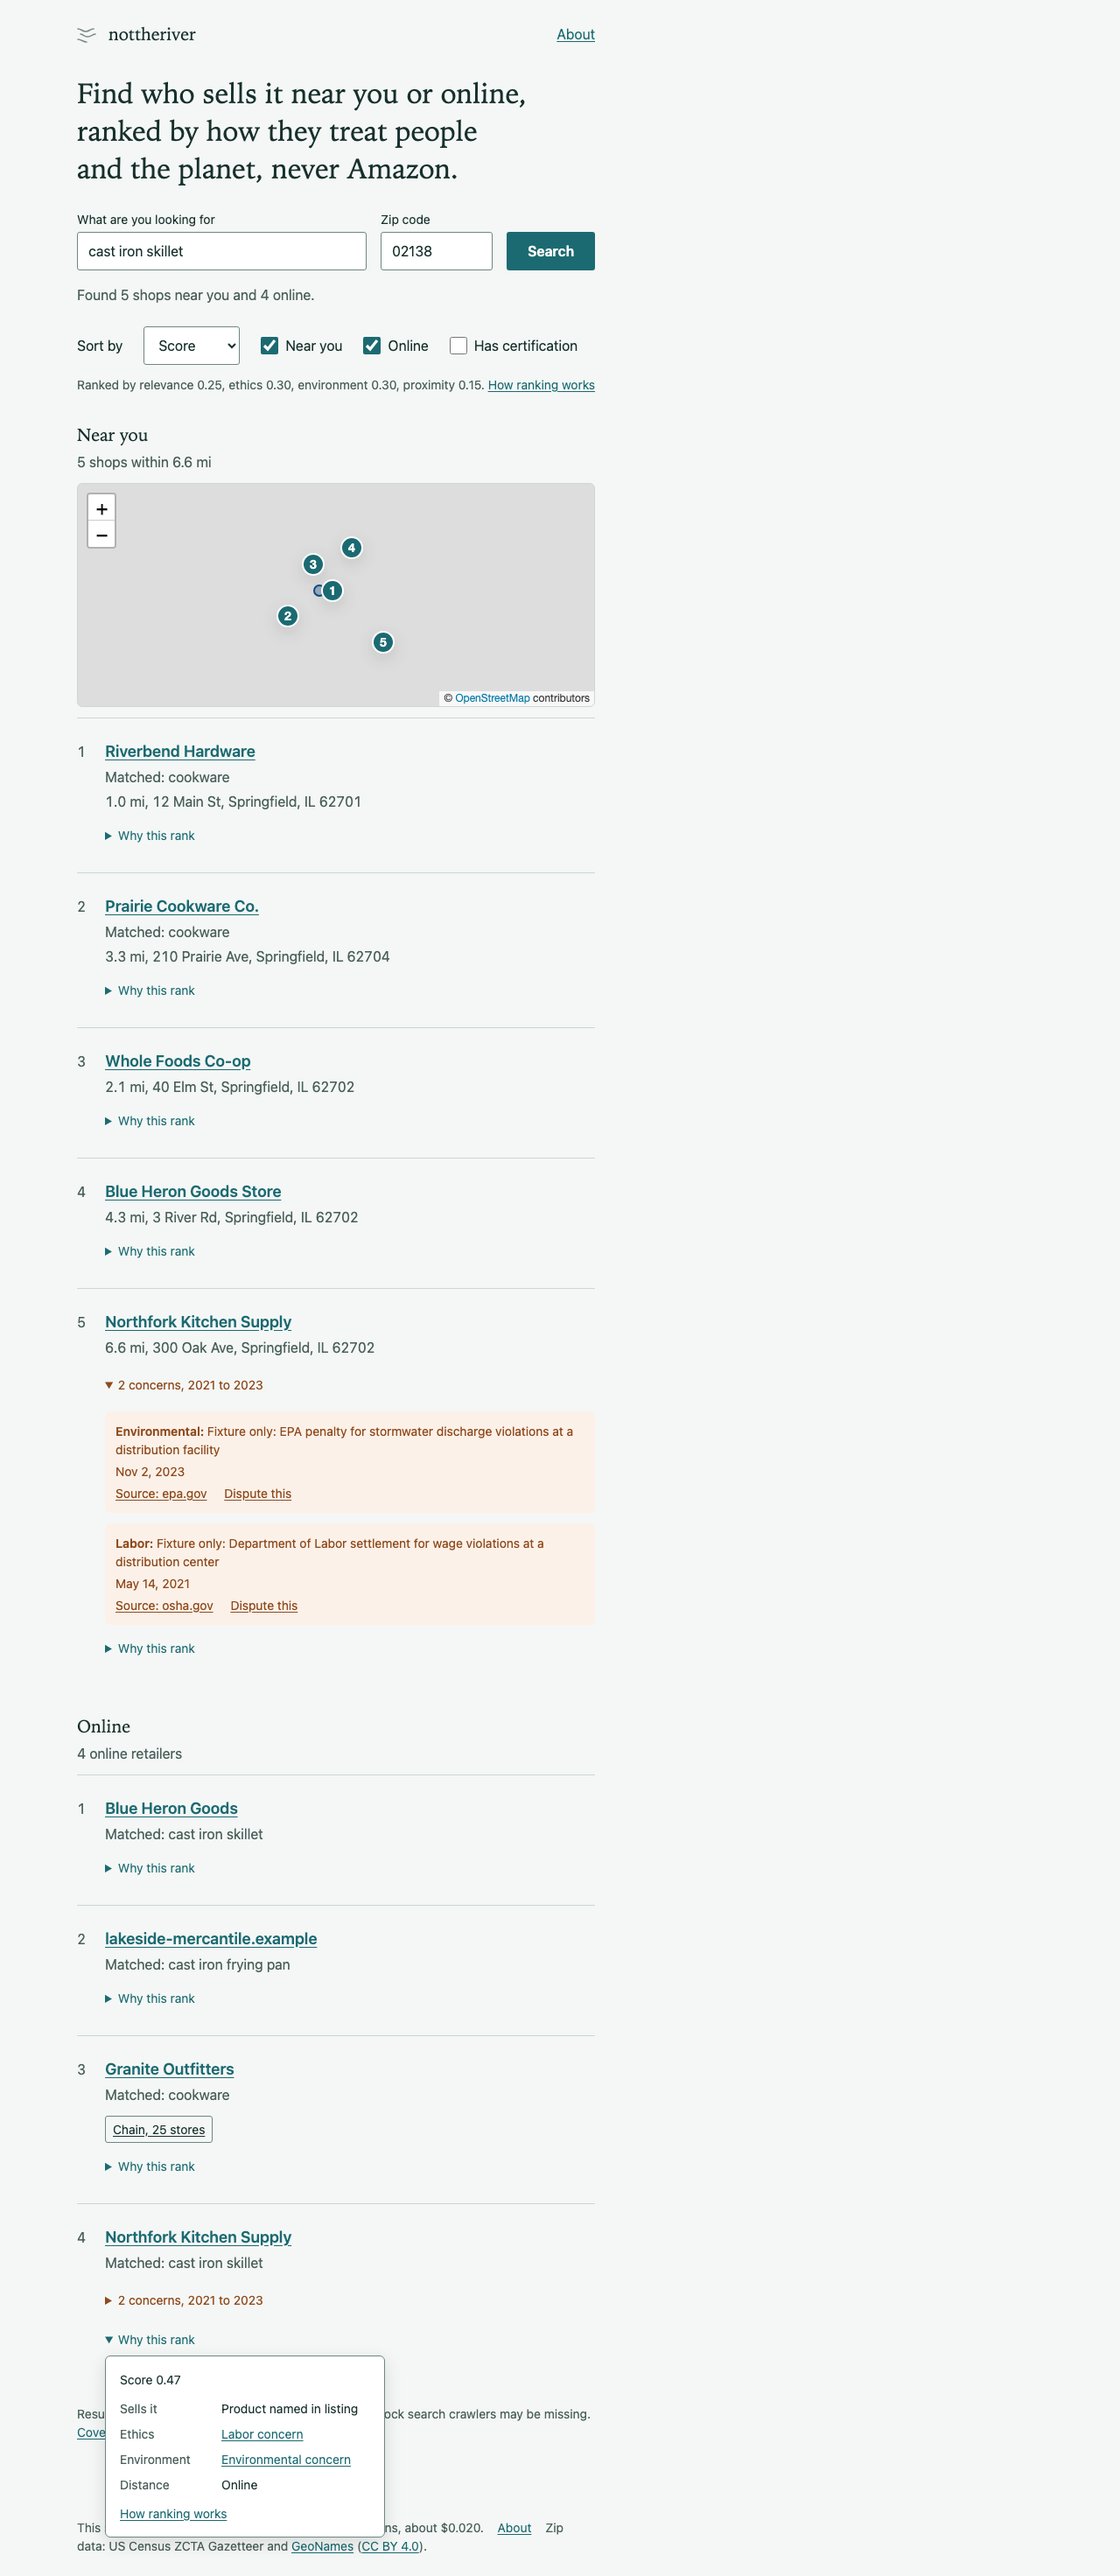
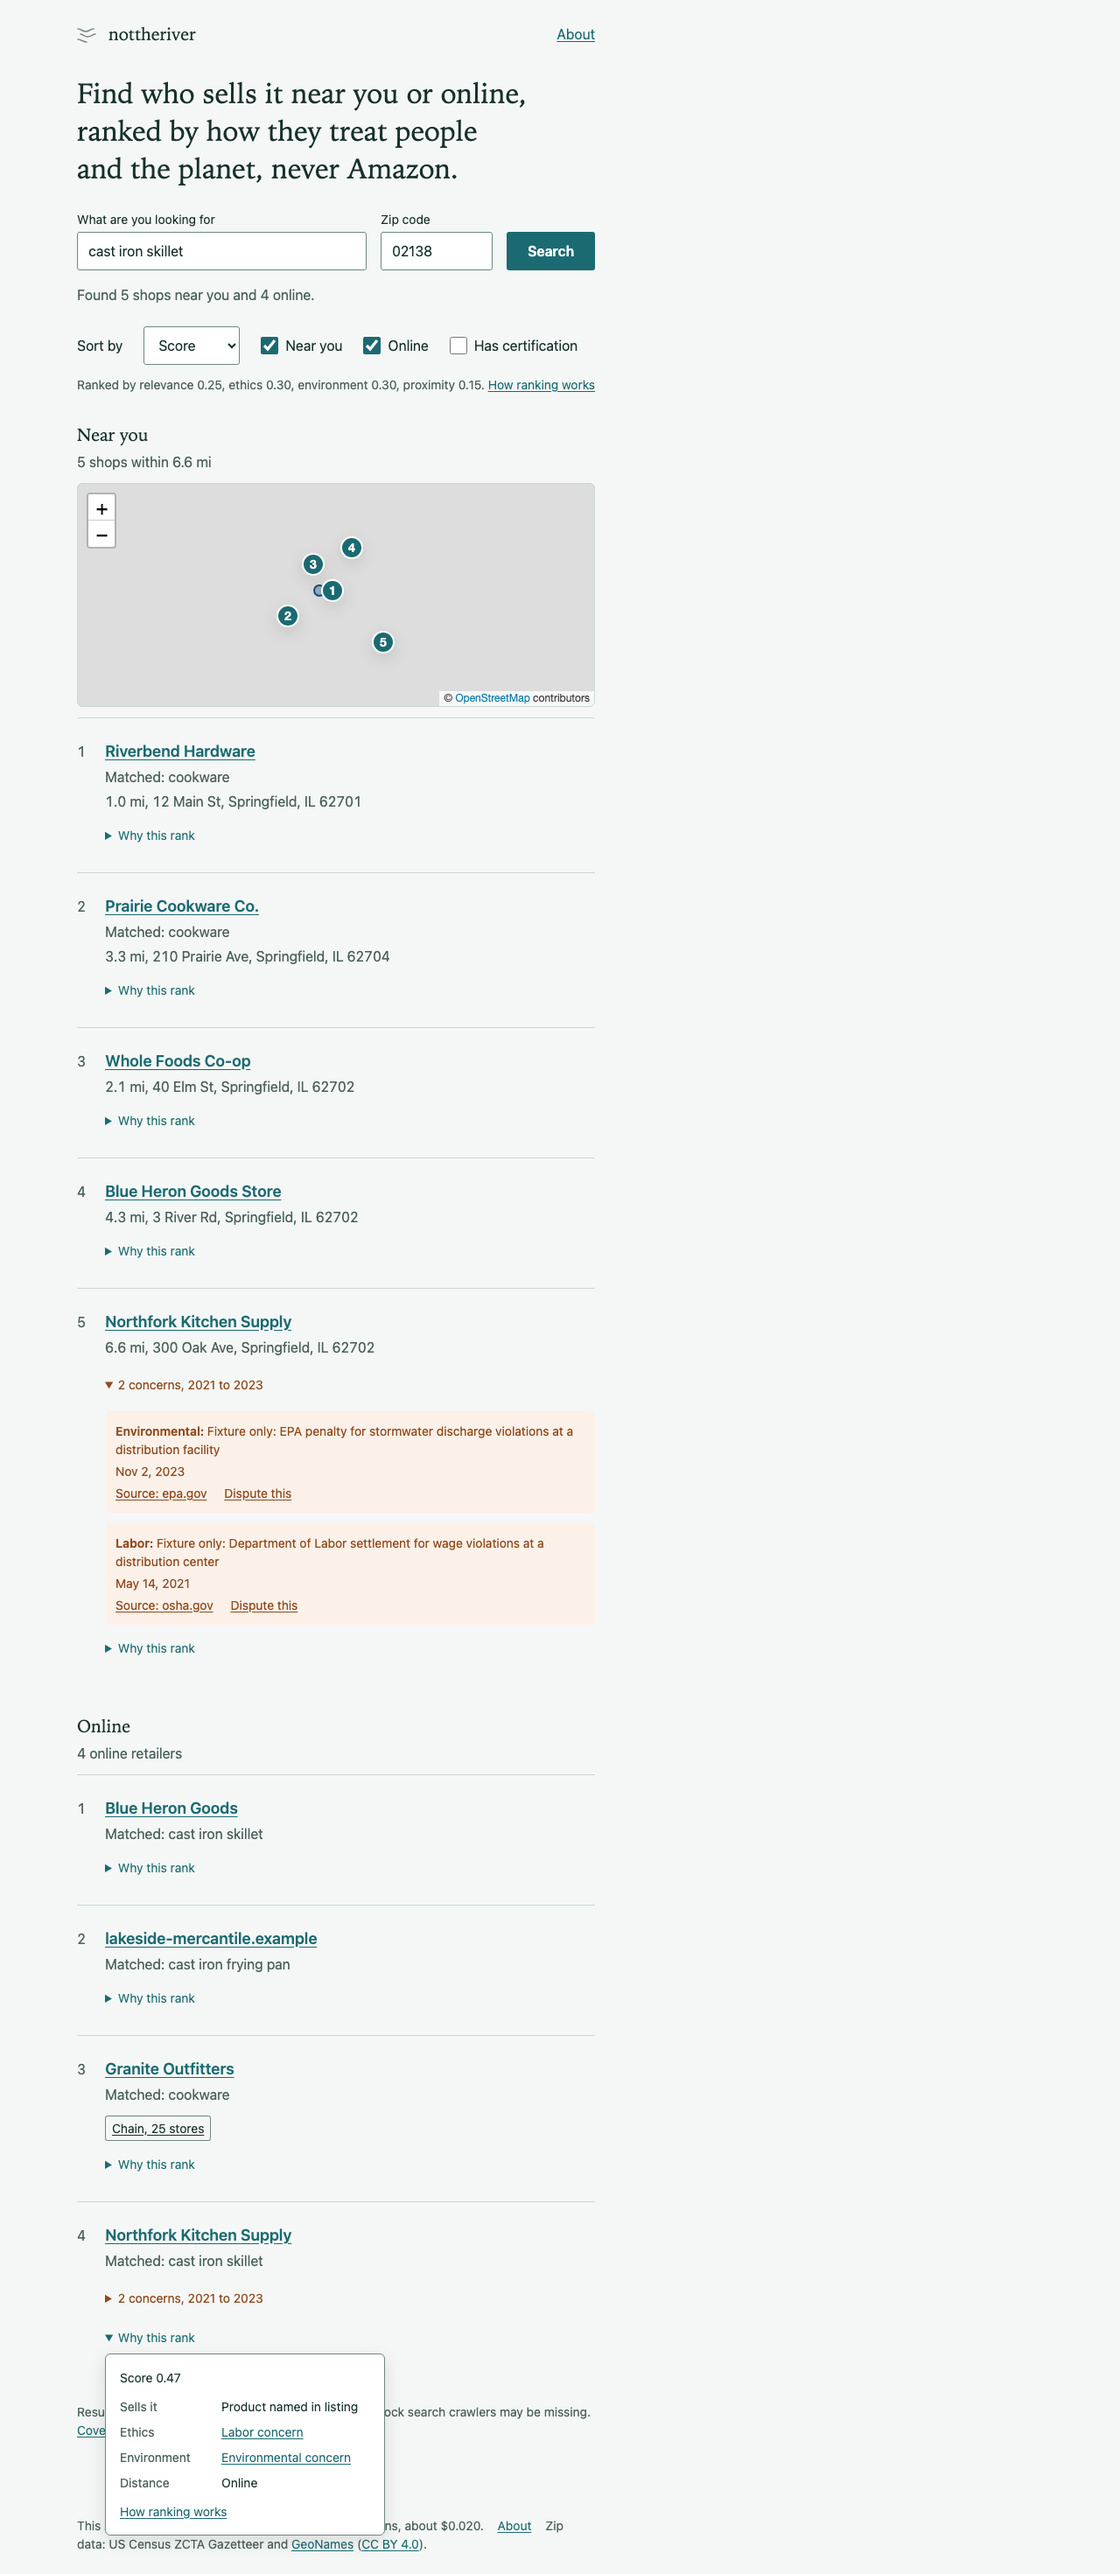
fix(site): chain badge review fixes
Name the chain badge in the dispute paragraph, split the About sentence,
and keep the neutral badge the same height as a teal one.

Claude-Session: https://claude.ai/code/session_01RPrsPCj17R4DAFxxExA59E

diff --git a/about.html b/about.html
@@ -38,10 +38,10 @@
 <li>Proximity: for shops near you, 1 at the center of your zip area, falling to 0 at 40 km (about 25 miles). Online retailers get 0.5.</li>
 </ul>
 <p>"Baseline 0.5" in a score's sources means that score started at 0.5 and nothing changed it.</p>
-<p>Certifications come from a short curated list in which every entry cites its source. A negative finding lowers a score only when its source is on the list of accepted sources: regulators, court records, established news organizations, and recognized labor and environmental watchdogs. The language model suggests search terms, judges whether each result is a shop that sells the product and leaves out those it judges are not, and points to findings in the search results; the text shown for a finding is always the source's own title or snippet, never words the model wrote. The chain badge comes from a curated list of chains with 10 or more US stores, each entry linking its own source, and is disputable like a certification: it never changes the score. Details: <a data-repo-path="blob/main/docs/ranking.md">docs/ranking.md</a>.</p>
+<p>Certifications come from a short curated list in which every entry cites its source. A negative finding lowers a score only when its source is on the list of accepted sources: regulators, court records, established news organizations, and recognized labor and environmental watchdogs. The language model suggests search terms, judges whether each result is a shop that sells the product and leaves out those it judges are not, and points to findings in the search results; the text shown for a finding is always the source's own title or snippet, never words the model wrote. The chain badge comes from a curated list of chains with 10 or more US stores, each entry linking its own source, Like a certification it can be disputed; unlike one, it never changes the score. Details: <a data-repo-path="blob/main/docs/ranking.md">docs/ranking.md</a>.</p>
 
 <h2 id="dispute">Disputing a ranking</h2>
-<p>Anyone can dispute a certification, a negative finding, or any part of a score, including the business itself. Every negative finding shown on a result has a "Dispute this" link that leads here or to the dispute form. How disputes are reviewed and resolved: TBD.</p>
+<p>Anyone can dispute a certification, a chain badge, a negative finding, or any part of a score, including the business itself. Every negative finding shown on a result has a "Dispute this" link that leads here or to the dispute form. How disputes are reviewed and resolved: TBD.</p>
 <p data-needs-repo hidden>Open a dispute with the <a data-dispute-link>dispute issue template</a>. It asks for the retailer, the signal shown, the source link, and evidence for the correction.</p>
 
 <h2 id="privacy">Privacy</h2>

diff --git a/src/styles.css b/src/styles.css
@@ -192,7 +192,8 @@ section h3 { font-family: var(--font-voice); font-weight: 400; font-size: var(--
 }
 /* A chain badge is a fact about the domain, not a credential, so it stays out of the
    teal certification style: a border instead of the accent fill, plain text color. */
-.badge-neutral { background: none; color: var(--ink); border: 1px solid var(--border-input); }
+/* An inset shadow, not a border, keeps it the same height as a teal badge in the same row. */
+.badge-neutral { background: none; color: var(--ink); box-shadow: inset 0 0 0 1px var(--border-input); }
 .signal, .negative, .concerns { margin: var(--space-3) 0 0; font-size: var(--text-sm); }
 .signal-kind { font-weight: 600; }
 .negative { padding: var(--space-3); background: var(--warn-bg); color: var(--warn); border-radius: var(--radius-panel); }

diff --git a/docs/plans/store-types.md b/docs/plans/store-types.md
@@ -1,6 +1,6 @@
 # Plan: store types (chain badge, specialist relevance, specialist values)
 
-Status: draft 2026-09-27, not started. Review: Fable fresh-eyes 2026-09-27, 16 findings, 16 applied. Source: `docs/caching-and-store-types.md` (Q2, S1 to S5, CQ3 to CQ5). Operator answers 2026-09-27: CQ3 independent vs chain is a badge on results, no score effect, no filter; CQ4 specialist vs generalist is a relevance question first (must have) and a values question second (only if easy); CQ1 and CQ2 are out of scope; CQ5 (record the chain label per baseline shop) has no ruling yet, so Phase 0 is this plan's proposal for measuring the badge and is gated on Q8. Not decided here, left as recorded in `docs/STATUS.md` "Decisions needed": whether `independent_retailer_assoc` should score (S5) and whether local recall should favor independents. Plan review answers (operator, 2026-09-27): Q1 yes, with a dealer-owned note; Q2 yes; Q3 with the count; Q4 neutral style; Q7 label local AND online baseline shops (194 rows); Q8 yes. Labeling rulings: Do It Best co-op members trading under their own name are not chains; REI is a chain (the operator added that its co-op ownership could improve ranking, parked in STATUS Priorities). Q5 and Q6 wait on Phase 4.
+Status: in progress 2026-09-27; Phases 0 to 2 shipped. Review: Fable fresh-eyes 2026-09-27, 16 findings, 16 applied. Source: `docs/caching-and-store-types.md` (Q2, S1 to S5, CQ3 to CQ5). Operator answers 2026-09-27: CQ3 independent vs chain is a badge on results, no score effect, no filter; CQ4 specialist vs generalist is a relevance question first (must have) and a values question second (only if easy); CQ1 and CQ2 are out of scope; CQ5 (record the chain label per baseline shop) has no ruling yet, so Phase 0 is this plan's proposal for measuring the badge and is gated on Q8. Not decided here, left as recorded in `docs/STATUS.md` "Decisions needed": whether `independent_retailer_assoc` should score (S5) and whether local recall should favor independents. Plan review answers (operator, 2026-09-27): Q1 yes, with a dealer-owned note; Q2 yes; Q3 with the count; Q4 neutral style; Q7 label local AND online baseline shops (194 rows); Q8 yes. Labeling rulings: Do It Best co-op members trading under their own name are not chains; REI is a chain (the operator added that its co-op ownership could improve ranking, parked in STATUS Priorities). Q5 and Q6 wait on Phase 4.
 
 ## Status checklist
 

diff --git a/docs/STATUS.md b/docs/STATUS.md
@@ -34,7 +34,7 @@ As of 2026-09-27. Pushed to `main`; the Worker is deployed with the store-type f
 
 ## In flight
 
-- Store types Phase 2 (priority 1): chain badge on the site.
+- Store types Phase 3a (priority 1): store breadth judgment.
 
 ## Priorities
 
@@ -42,7 +42,7 @@ How work is scheduled: this list is the order of work. The top item not blocked 
 
 | # | Work | Next step | Waits on |
 |---|---|---|---|
-| 1 | Store types: chain badge and specialist relevance ([plans/store-types.md](plans/store-types.md)) | Phase 2: render the chain badge on the site (neutral style), About and ranking.md sentences. Phase 1 live at 7a97c70: `data/chains.json` (33 sourced chains), the optional `chain` response field; a live search showed 4 of 9 nearby and 5 of 10 online results badged ([evidence](evidence/chain-badge-live.txt)). Phase 0: all 194 eval20-0925 baseline rows carry a sourced chain label ([chain-labels](evidence/quality/eval20-0925/chain-labels/)) | Nothing; Q5 and Q6 wait on Phase 4 |
+| 1 | Store types: chain badge and specialist relevance ([plans/store-types.md](plans/store-types.md)) | Phase 3a: the model judges store breadth (specialist, general, unknown), shown in the response only, then Phase 4 measures. Phase 2 live: the site shows the chain badge in a neutral style. Phase 1 live at 7a97c70: `data/chains.json` (33 sourced chains), the optional `chain` response field; a live search showed 4 of 9 nearby and 5 of 10 online results badged ([evidence](evidence/chain-badge-live.txt)). Phase 0: all 194 eval20-0925 baseline rows carry a sourced chain label ([chain-labels](evidence/quality/eval20-0925/chain-labels/)) | Nothing; Q5 and Q6 wait on Phase 4 |
 | 2 | Amazon plan Phase B: import 54 findings and 6 certifications ([plan](plans/amazon-alternatives-in-ranking.md)), run under [the approved approach](plans/amazon-execution-approach.md) | B1, the claim-wording sheet (review item R1), as its own session; the plan's status checklist holds B1 and the B2 gate | Operator sign-off on every claim at B2 |
 | 3 | Amazon plan Phase C: measure (offline replay, then live rerun against T1 to T4) | After Phase B deploys | Phase B |
 | 4 | Amazon plan Phase D: suggested shops | Revisit after Phase C (operator ruling Q4: not yet) | Phase C |
